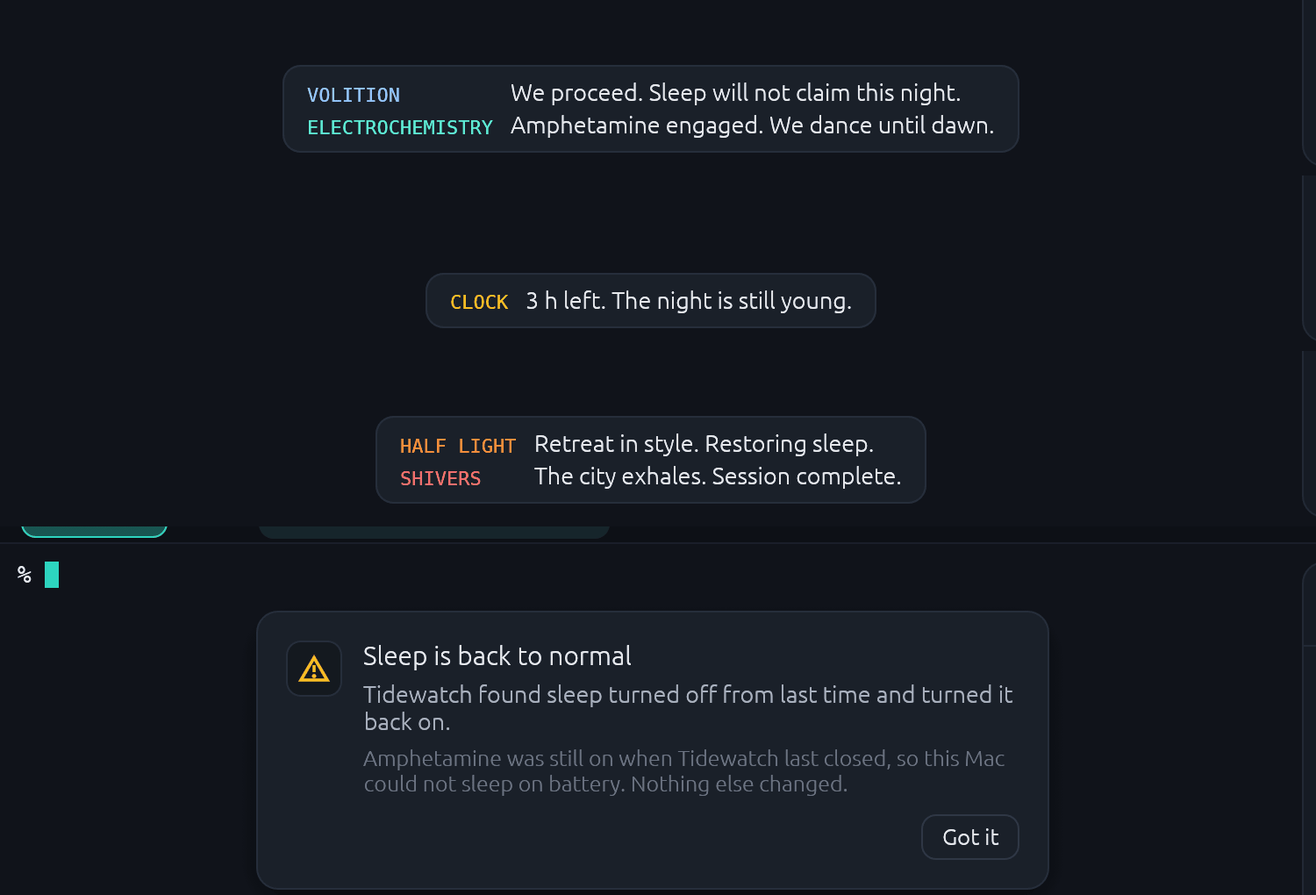
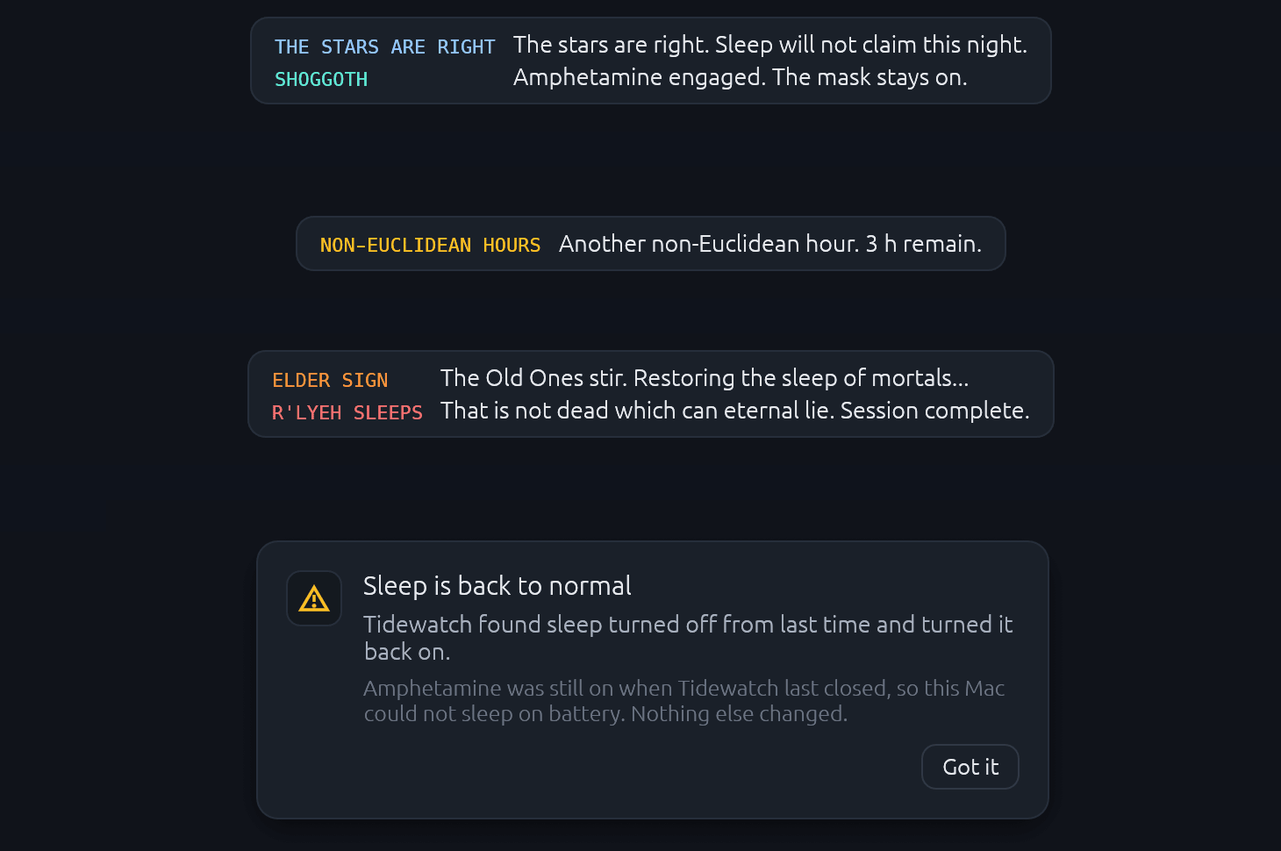
feat: Amphetamine toasts speak Lovecraft (voice screenshot 33 kB to 31 kB after pngquant and oxipng, PSNR above 50 dB)

diff --git a/crates/tidewatch/src/amphetamine_view.rs b/crates/tidewatch/src/amphetamine_view.rs
@@ -1,12 +1,12 @@
 //! The Amphetamine button at the right end of the tab strip: the tablet, the time pill that grows to
-//! its left, the menu a click opens, the tooltip, the toast lines in the skills' voice and the
+//! its left, the menu a click opens, the tooltip, the toast lines in the Lovecraftian voice and the
 //! safety notice card.
 
 use egui::{
     Align2, Color32, CornerRadius, Id, Margin, Order, Rect, RectAlign, Response, RichText, Sense,
     Stroke, StrokeKind, Ui, pos2, vec2,
 };
-use tidewatch_core::amphetamine::{Choice, Skill, State};
+use tidewatch_core::amphetamine::{Choice, Omen, State};
 
 use crate::amphetamine_icon;
 use crate::amphetamine_motion::{Look, STANDARD, bezier};
@@ -445,31 +445,31 @@ fn paint_warning(painter: &egui::Painter, center: egui::Pos2, size: f32) {
     painter.circle_filled(center + vec2(0.0, 5.0 * unit), 1.0 * unit * 1.5, brand::AMBER);
 }
 
-fn skill_ink(skill: Skill) -> Color32 {
-    match skill {
-        Skill::Volition => brand::BLUE_TEXT,
-        Skill::Electrochemistry => brand::TEAL_TEXT,
-        Skill::Clock => brand::AMBER,
-        Skill::HalfLight => brand::ORANGE,
-        Skill::Shivers => brand::RED,
-        Skill::Plain => brand::TEXT,
+fn omen_ink(omen: Omen) -> Color32 {
+    match omen {
+        Omen::StarsRight => brand::BLUE_TEXT,
+        Omen::Shoggoth => brand::TEAL_TEXT,
+        Omen::Hours => brand::AMBER,
+        Omen::ElderSign => brand::ORANGE,
+        Omen::Rlyeh => brand::RED,
+        Omen::Plain => brand::TEXT,
     }
 }
 
-/// The toast pill with a skill tag in front of each line.
-pub(crate) fn toast(ui: &Ui, column: Rect, lines: &[(Skill, String)], fade: f32) {
+/// The toast pill with an omen tag in front of each line.
+pub(crate) fn toast(ui: &Ui, column: Rect, lines: &[(Omen, String)], fade: f32) {
     let alpha = |color: Color32| color.gamma_multiply(fade);
     let painter = ui.painter();
     let tag_font = mono(11.0);
     let rows: Vec<_> = lines
         .iter()
-        .map(|(skill, text)| {
+        .map(|(omen, text)| {
             let tag =
-                painter.layout_no_wrap(skill.tag().to_owned(), tag_font.clone(), skill_ink(*skill));
+                painter.layout_no_wrap(omen.tag().to_owned(), tag_font.clone(), omen_ink(*omen));
             let wrap =
                 (column.width() - 2.0 * (TOAST_PAD.x + 16.0) - tag.size().x - 10.0).max(120.0);
             let line = painter.layout(text.clone(), body(13.5), brand::TEXT, wrap);
-            (*skill, tag, line)
+            (*omen, tag, line)
         })
         .collect();
     let tag_w = rows.iter().map(|(_, tag, _)| tag.size().x).fold(0.0, f32::max);
@@ -483,11 +483,11 @@ pub(crate) fn toast(ui: &Ui, column: Rect, lines: &[(Skill, String)], fade: f32)
     painter.rect_filled(rect, 10.0, alpha(brand::ITEM));
     painter.rect_stroke(rect, 10.0, Stroke::new(1.0, alpha(brand::ITEM_LINE)), StrokeKind::Inside);
     let mut y = rect.top() + TOAST_PAD.y;
-    for (skill, tag, line) in rows {
+    for (omen, tag, line) in rows {
         let tag_at =
             pos2(rect.left() + TOAST_PAD.x, y + (line.size().y - tag.size().y) / 2.0 + 1.0);
         let line_height = line.size().y;
-        painter.galley_with_override_text_color(tag_at, tag, alpha(skill_ink(skill)));
+        painter.galley_with_override_text_color(tag_at, tag, alpha(omen_ink(omen)));
         painter.galley_with_override_text_color(
             pos2(rect.left() + TOAST_PAD.x + tag_w + gap, y),
             line,

diff --git a/crates/tidewatch-core/src/amphetamine.rs b/crates/tidewatch-core/src/amphetamine.rs
@@ -108,54 +108,55 @@ pub enum Voice {
 }
 
 #[derive(Clone, Copy, Debug, PartialEq, Eq)]
-pub enum Skill {
-    Volition,
-    Electrochemistry,
-    Clock,
-    HalfLight,
-    Shivers,
+pub enum Omen {
+    StarsRight,
+    Shoggoth,
+    Hours,
+    ElderSign,
+    Rlyeh,
     Plain,
 }
 
-impl Skill {
+impl Omen {
     #[must_use]
     pub fn tag(self) -> &'static str {
         match self {
-            Self::Volition => "VOLITION",
-            Self::Electrochemistry => "ELECTROCHEMISTRY",
-            Self::Clock => "CLOCK",
-            Self::HalfLight => "HALF LIGHT",
-            Self::Shivers => "SHIVERS",
+            Self::StarsRight => "THE STARS ARE RIGHT",
+            Self::Shoggoth => "SHOGGOTH",
+            Self::Hours => "NON-EUCLIDEAN HOURS",
+            Self::ElderSign => "ELDER SIGN",
+            Self::Rlyeh => "R'LYEH SLEEPS",
             Self::Plain => "",
         }
     }
 }
 
 impl Voice {
-    /// The toast lines, each a skill tag and one short sentence.
+    /// The toast lines, each an omen tag and one short sentence.
     #[must_use]
-    pub fn lines(&self) -> Vec<(Skill, String)> {
-        let line = |skill, text: &str| (skill, text.to_owned());
+    pub fn lines(&self) -> Vec<(Omen, String)> {
+        let line = |omen, text: &str| (omen, text.to_owned());
         match self {
             Self::Start => vec![
-                line(Skill::Volition, "We proceed. Sleep will not claim this night."),
-                line(Skill::Electrochemistry, "Amphetamine engaged. We dance until dawn."),
+                line(Omen::StarsRight, "The stars are right. Sleep will not claim this night."),
+                line(Omen::Shoggoth, "Amphetamine engaged. The mask stays on."),
             ],
-            Self::HoursLeft(1) => vec![line(Skill::Clock, "1 h left. Dawn is close.")],
+            Self::HoursLeft(1) => {
+                vec![line(Omen::Hours, "The last non-Euclidean hour. 1 h remains.")]
+            }
             Self::HoursLeft(hours) => {
-                vec![(Skill::Clock, format!("{hours} h left. The night is still young."))]
+                vec![(Omen::Hours, format!("Another non-Euclidean hour. {hours} h remain."))]
             }
             Self::End => vec![
-                line(Skill::HalfLight, "Retreat in style. Restoring sleep."),
-                line(Skill::Shivers, "The city exhales. Session complete."),
+                line(Omen::ElderSign, "The Old Ones stir. Restoring the sleep of mortals..."),
+                line(Omen::Rlyeh, "That is not dead which can eternal lie. Session complete."),
             ],
             Self::NotStarted(why) => {
-                vec![(Skill::Plain, format!("Amphetamine did not start: {why}"))]
+                vec![(Omen::Plain, format!("Amphetamine did not start: {why}"))]
             }
-            Self::StillOff => vec![line(
-                Skill::Plain,
-                "Sleep may still be off. Run: sudo pmset -a disablesleep 0",
-            )],
+            Self::StillOff => {
+                vec![line(Omen::Plain, "Sleep may still be off. Run: sudo pmset -a disablesleep 0")]
+            }
         }
     }
 }

diff --git a/crates/tidewatch-core/src/amphetamine/tests.rs b/crates/tidewatch-core/src/amphetamine/tests.rs
@@ -134,15 +134,20 @@ fn the_choices_are_the_menu_in_order() {
 }
 
 #[test]
-fn the_voice_is_the_cocaine_function_skill_by_skill() {
+fn the_voice_is_cosmic_horror_omen_by_omen() {
     let tags = |voice: &Voice| -> Vec<&'static str> {
-        voice.lines().iter().map(|(skill, _)| skill.tag()).collect()
+        voice.lines().iter().map(|(omen, _)| omen.tag()).collect()
     };
-    assert_eq!(tags(&Voice::Start), ["VOLITION", "ELECTROCHEMISTRY"]);
-    assert_eq!(tags(&Voice::End), ["HALF LIGHT", "SHIVERS"]);
-    assert_eq!(Voice::HoursLeft(3).lines()[0].1, "3 h left. The night is still young.");
-    assert_eq!(Voice::HoursLeft(1).lines()[0].1, "1 h left. Dawn is close.");
-    assert_eq!(Voice::Start.lines()[0].1, "We proceed. Sleep will not claim this night.");
+    assert_eq!(tags(&Voice::Start), ["THE STARS ARE RIGHT", "SHOGGOTH"]);
+    assert_eq!(tags(&Voice::End), ["ELDER SIGN", "R'LYEH SLEEPS"]);
+    assert_eq!(tags(&Voice::HoursLeft(2)), ["NON-EUCLIDEAN HOURS"]);
+    assert_eq!(Voice::HoursLeft(3).lines()[0].1, "Another non-Euclidean hour. 3 h remain.");
+    assert_eq!(Voice::HoursLeft(1).lines()[0].1, "The last non-Euclidean hour. 1 h remains.");
+    assert_eq!(Voice::Start.lines()[0].1, "The stars are right. Sleep will not claim this night.");
+    assert_eq!(
+        Voice::End.lines()[1].1,
+        "That is not dead which can eternal lie. Session complete."
+    );
     for voice in [Voice::Start, Voice::End, Voice::HoursLeft(2), Voice::StillOff] {
         for (_, text) in voice.lines() {
             assert!(!text.contains(['\u{2014}', '\u{2013}']), "{text}");

diff --git a/crates/tidewatch/src/toast.rs b/crates/tidewatch/src/toast.rs
@@ -2,7 +2,7 @@
 //! fade is testable.
 
 use stdusk_egui::ui::toast_alpha;
-use tidewatch_core::amphetamine::Skill;
+use tidewatch_core::amphetamine::Omen;
 
 pub(crate) const LIFETIME_S: f64 = 3.5;
 const FADE_WINDOW_S: f64 = 0.35;
@@ -11,7 +11,7 @@ const FRAME_S: f64 = 1.0 / 60.0;
 #[derive(Debug, PartialEq)]
 pub(crate) struct Toast {
     text: String,
-    lines: Vec<(Skill, String)>,
+    lines: Vec<(Omen, String)>,
     expires: f64,
 }
 
@@ -20,13 +20,13 @@ impl Toast {
         Self { text: text.into(), lines: Vec::new(), expires: now + LIFETIME_S }
     }
 
-    /// A toast of lines that each open with a skill tag.
-    pub(crate) fn voice(lines: Vec<(Skill, String)>, now: f64) -> Self {
+    /// A toast of lines that each open with an omen tag.
+    pub(crate) fn voice(lines: Vec<(Omen, String)>, now: f64) -> Self {
         let text = lines.iter().map(|(_, line)| line.as_str()).collect::<Vec<_>>().join(" ");
         Self { text, lines, expires: now + LIFETIME_S }
     }
 
-    pub(crate) fn lines(&self) -> &[(Skill, String)] {
+    pub(crate) fn lines(&self) -> &[(Omen, String)] {
         &self.lines
     }
 

diff --git a/LEDGER.md b/LEDGER.md
@@ -11,12 +11,14 @@ A running log of what got done, newest first. The plan lives in [PLAN.md](PLAN.m
 
 ## 2026-10-24
 
+- **Amphetamine speaks Lovecraft (branch `amphetamine-voice`).** The toast lines of the Amphetamine button leave the Disco Elysium skills for public-domain cosmic horror, in the same four moments and structure: start (THE STARS ARE RIGHT, SHOGGOTH), each hour (NON-EUCLIDEAN HOURS), end (ELDER SIGN, R'LYEH SLEEPS). `Skill` is now `Omen`; the tests, the `project.md` line and `docs/screenshots/amphetamine-voice.png` follow. No new modules.
+
 - **Wheel and trackpad scroll in the terminal (branch `terminal-scroll`).** The owner: "I also cannot scroll". Root cause: stdusk routes the wheel in its own app code (`src/workspace.rs`: scrollback, arrow keys on the alternate screen, SGR wheel reports under mouse reporting), not in `stdusk-egui`, so moving to Tidewatch left the grid with nothing that read the wheel. New `terminal_wheel` ports that routing and reads the raw wheel events (points, lines or pages) with a carry, so a slow trackpad swipe adds up; `app/terminal.rs` also jumps back to the bottom when you type or paste, as stdusk does. Not the Tab focus lock: the grid keeps the focus through every wheel frame in the tests. Differences from stdusk: arrows follow the cursor-key mode (CSI normally, SS3 in application mode) where stdusk always sends SS3, and Alt+wheel as arrows is not ported. Checked: headless frames with the real panel, `collect_input`, `render_grid` and the focus lock over a real pty (shell scrollback by lines, points and pages, a pointer elsewhere, an alternate-screen app receiving `ESC [ A` and `ESC [ B`, SGR reports `ESC [ < 64 ; 38 ; 13 M` in the alternate and the normal screen), and a `TIDEWATCH_SCREENSHOT` run with `seq 1 500` and `TIDEWATCH_DEV_SCROLL=30`. Not checked: a real trackpad or wheel, Claude Code's own TUI, Linux; the Reader, History, file view and Overview use plain egui scroll areas and were read, not driven.
 
 - **Tab in the terminal goes to the shell (branch `terminal-tab-focus`).** The owner: "when I press Tab to autocomplete in the terminal, accessibility Tab kicks in and it starts focusing button elements". egui walks keyboard focus on Tab, Shift+Tab, arrows and Esc unless the focused widget filters them, and nothing held the focus while the shell had the keys, so the shell got `\t` and the buttons around it took focus too. `terminal_focus::hold` runs after the grid is drawn: when the shell has the keys (no modal, no focused text field, no open popup, no Reader) the grid takes the focus when nothing holds it and sets an `EventFilter` with tab, both arrow kinds and escape, so Tab reaches the pty as `\t`, Shift+Tab as `ESC [ Z`. It lets go when the keys are not free, so Tab in the new tab form, dialogs, Settings and text fields is egui's as before. `remember_focus` ignores the grid, otherwise an Esc meant for the shell would be used up as "a widget gave up the keyboard". stdusk has no such lock (its window has no buttons for Tab to reach), so the fix stays in this crate. Checked: headless frames with a text field, a button and the real `render_grid` over a real pty (7 tests; the three about Tab, Shift+Tab, arrows and Esc fail without the filter, the Esc one without the `remember_focus` change), and a throwaway frame harness typing `ech` and Tab into a real bash and zsh, which both completed to `echo`. Not checked: the window itself with a real keyboard, Linux.
 - **Screenshots paste with Cmd+V (branch `image-paste`).** The owner: "I STILL CAN'T PASTE SCREENSHOTS". egui folds Cmd+V into a text-only `Event::Paste` and sends nothing for an image-only clipboard, so Cmd+V with a screenshot did nothing. Ported stdusk's NSEvent local key-down monitor (stdusk keeps it in its binary, not a shared crate, so there is no stdusk change and no rev bump). It looks at the pasteboard types only (cheap on the main thread); for a picture or copied image files it swallows the key and counts a request, and the window turns that into a job for the tab in front. In a terminal tab Claude, Codex, Gemini and Copilot get Ctrl+V (0x16: each reads the clipboard picture on it; checked in the installed codex 0.162.1, gemini 0.46.0 and copilot 1.0.103), a plain shell or a custom CLI gets the path of a PNG saved in `<tab state>/pastes/`. In the Reader's reply box, the agent-ready composer or any focused text field the saved path is inserted (the Reader's reply when no field has the keyboard). Image files copied in Finder paste their own paths (Finder also puts the icon and the file name on the clipboard, so those are ignored). A clipboard with text and a picture keeps the text paste. Numbers: 2,910 tests pass across the workspace (about 20 new: the decision table, `shot_name`, `path_text`, saving a real PNG and reading it back, headless frames for the composer and the reply box, a mixed clipboard pasting its text). Checked live in a `TIDEWATCH_BACKGROUND=1` run (throwaway home and repo, stand-in `claude` that logs raw bytes, owner's clipboard saved and restored byte for byte): a screenshot clipboard put `16` in the stand-in's input, the composer got the saved path (the PNG decodes to the clipboard's 1224x754), a plain shell got the path at its prompt, a Finder-copied `Screen Shot.png` in a folder with a space pasted `'/tmp/ip files/Screen Shot.png'` and copied nothing, text alone and text with a picture pasted the text. The Cmd+V in those runs was a real `NSEvent` key-down queued in the app's own queue (`TIDEWATCH_DEV_IMAGE_PASTE`), so it passes the monitor. Not verified: a physical Cmd+V on the keyboard in a foreground window (a background window gets no key events from `CGEventPostToPid`), a real Claude Code, Codex, Gemini or Copilot reading the clipboard on the 0x16, Cmd+Ctrl+Shift+4 itself (a PNG on the clipboard stands in), Linux (egui-winit swallows Ctrl+V there too and nothing hooks it yet, so an image-only Ctrl+V still does nothing).
 
-- **Amphetamine (branch `amphetamine`).** The owner approved board Round 6 ("ok build it"): the `cocaine` function as a button at the right end of the strip. State machine in `tidewatch_core::amphetamine` (off, starting, on, stopping; timer end, Add 1 h, hourly toast), the root helper script and the one admin command in `amphetamine_lid`, the `System` seam with a recording `FakeSystem`, the tablet in `amphetamine_motion` (pure motion on the 24 unit grid), `amphetamine_icon` (egui painter), `amphetamine_pill`, `amphetamine_view` (button, pill, menu, tooltip, toasts with skill tags, safety notice) and `amphetamine_glue` (host, files, launch check). Palette row Amphetamine, found by typing `cocaine` too; one line under the Keep awake card in Settings. See the Deviations log for the pmset facts and what is decided.
+- **Amphetamine (branch `amphetamine`).** The owner approved board Round 6 ("ok build it"): the `cocaine` function as a button at the right end of the strip. State machine in `tidewatch_core::amphetamine` (off, starting, on, stopping; timer end, Add 1 h, hourly toast), the root helper script and the one admin command in `amphetamine_lid`, the `System` seam with a recording `FakeSystem`, the tablet in `amphetamine_motion` (pure motion on the 24 unit grid), `amphetamine_icon` (egui painter), `amphetamine_pill`, `amphetamine_view` (button, pill, menu, tooltip, toasts with omen tags, safety notice) and `amphetamine_glue` (host, files, launch check). Palette row Amphetamine, found by typing `cocaine` too; one line under the Keep awake card in Settings. See the Deviations log for the pmset facts and what is decided.
   Numbers: 85 new tests, 3,011 passing across the workspace (state machine table, helper script run with a fake `pmset` for deadline, token removed, pid gone, junk token, a later deadline and TERM, the admin command run with a fake `pmset`, quoting, launch recovery table, host flows through the fake system, motion timeline and seeded specks, label fit, headless frames: nothing to the right of the button moves, the pill never outgrows the gap, repaint delay `MAX` while off or unfocused and at most 33 ms while on, a click opens the menu); `TIDEWATCH_FAKE_AMPHETAMINE=off|on|forever|activating|short|notice|toast|hour|end` shows each state in a screenshot with no machine behind it (`docs/screenshots/amphetamine-*.png`).
   Not checked: the real password prompt and the real `pmset` (never run from a test or a dev run), the helper under root, a real lid closed on battery, Linux, a crash restore on a real machine, the macOS reduced-motion setting.
 - **On Linux the tab strip is the title bar.** The owner, on Fedora GNOME Wayland: the top bar is "un-esthethic", make it "part of a continious UI". GNOME draws no server-side frame, so winit's grey Adwaita bar sat over the Night tide strip. Off macOS and outside quake (`Chrome::Drawn`, from `Env::own_frame` in the Plan) the system frame is off; the strip's empty space drags the window (`StartDrag`) and a double click does what GNOME's `action-double-click-titlebar` says; the window buttons sit after the gear in the strip's icon-button look (close turns red on hover, all dim while the window is in the background) and follow GNOME's `button-layout` (read once with `gsettings` before the window opens; Fedora's default `appmenu:close` shows Close alone; minimize, maximize and close without GNOME); 5 px edges with L-shaped corners resize (`BeginResize`) from a foreground layer, and a 1 px `SIDEBAR_LINE` outlines the window, neither while maximized. macOS keeps its native title bar. Numbers: 999 app tests pass (17 new: plan, zones, layouts, and headless frames that a click on a strip widget stays with it, a drag on empty strip moves the window, double click, each button, an edge press resizes and one inside does not). Checked with `TIDEWATCH_SCREENSHOT` (buttons, the update chip beside them, the owner's Close-only layout) and a `TIDEWATCH_BACKGROUND` run on GNOME Wayland that opened and quit cleanly. **Not verified live:** dragging, double click, resizing and the buttons on a real desktop (they need the pointer; for the owner). **Open:** no rounded corners or shadow (GNOME gives neither to a window without its frame; corners need a transparent window); KDE and other desktops get the default buttons. The workspace clippy gate stops at a new rust 1.97 lint in `tidewatch-core` (`duration_suboptimal_units`, `test_command.rs:20`), not touched here; the delivery tests fail inside an agent tab because its push guard blocks their `git push`.

diff --git a/.agents/rules/project.md b/.agents/rules/project.md
@@ -66,7 +66,7 @@ crates/tidewatch-core/  worktrees, profiles, permission levels, workflows, agent
   src/trust_apply.rs    D14 disk half: each CLI's config file (CLAUDE_CONFIG_DIR, COPILOT_HOME, CODEX_HOME honored), inspect, trust the root, trust a worktree, revoke; atomic write, `.tidewatch-bak` backup, race check
   src/prefs.rs          ~/.config/tidewatch/settings.toml: the app-wide switches (restore the last session at launch, default on; `resume_agents` auto, prefill or off, default auto) the [window] table (quake on, hotkey Ctrl+Alt+Grave, menu-bar item on, panels side by side or below), the [updates] table (check, install; both on) and the [github] table (`mode` ask, auto or off, and three tick boxes: failed checks, reviews, conflicts; the default of a new tab's PR choices); bad file -> defaults; `update` rewrites one part from a fresh read; the `[new_tab]` table (`agent`, `permission` with a hand-edited `yolo` read as `edits`, `remote` default off, `start_from` current or default_branch, `right_panel` progress or history, `meeseeks_agent` the CLI the last Meeseeks ran on (kept apart from `agent`), `[new_tab.meeseeks]` the three Done means ticks; bad file -> defaults); the `[tabs]` table (`park_after`: off, 1h, 4h (default), 8h, 24h), the `[done_check]` table (`enabled`, on by default); the `[keep_awake]` table (`enabled`, on by default); the `[guards]` table (`dashes`, `trailers`, `private_names`, `rerun_failed`, `comments` on, `draft_prs` off, `private_repos` empty, `[guards.repos."<path>"]` answers); the `[terminal]` table (`font`: empty for the built-in face, else a family name, as `FontChoice`)
   src/keep_awake.rs    when the computer is kept from idle-sleeping, pure and table-tested: `keeps_awake` (a tab counts when `Working`, `NeedsYou(Quiet)` or with a running job on its board; a real wait, done or failed never), `State` (released, or held with the time the last working agent stopped), `step` (working agents, the switch and the time in; held at once, released after `RELEASE_AFTER_SECS` (120) of nobody working, off releases at once), `wake_at`
-  src/amphetamine.rs   Amphetamine, the keep-awake button, as a pure state machine: `State` (off, starting while the password prompt is open, on with a wall-clock deadline and the hour last told, stopping until sleep is confirmed back), `Event` in, `Effect` out (`StartLid`, take or release the hold, `WriteDeadline`, `StopLid`, `Say`), `Choice` (30 min, 1 h, 4 h, until turned off), `Voice` and its `Skill`-tagged lines (the owner's `cocaine` function: VOLITION, ELECTROCHEMISTRY, CLOCK, HALF LIGHT, SHIVERS), `hours_left`; without lid mode (Linux) there is no prompt and no stopping state
+  src/amphetamine.rs   Amphetamine, the keep-awake button, as a pure state machine: `State` (off, starting while the password prompt is open, on with a wall-clock deadline and the hour last told, stopping until sleep is confirmed back), `Event` in, `Effect` out (`StartLid`, take or release the hold, `WriteDeadline`, `StopLid`, `Say`), `Choice` (30 min, 1 h, 4 h, until turned off), `Voice` and its `Omen`-tagged lines (a Lovecraftian voice for the toasts: THE STARS ARE RIGHT, SHOGGOTH, NON-EUCLIDEAN HOURS, ELDER SIGN, R'LYEH SLEEPS), `hours_left`; without lid mode (Linux) there is no prompt and no stopping state
   src/amphetamine_lid.rs  lid-closed mode as strings and files: `helper_script` (a POSIX script run as root, token path and Tidewatch's pid as arguments: restores `pmset -a disablesleep 0` when the token file is gone, its deadline has passed, its text is not a number, Tidewatch's pid is gone, or it is told to stop), `admin_command` (`pmset -a disablesleep 1`, then the helper detached, its pid printed) and `osascript_args` (one `with administrator privileges` prompt), `shell_quote`, the token (the deadline in unix seconds, `0` for none) and the marker (`.state/amphetamine.json`, written before the prompt), `recovery` (what a launch does with a marker, `pmset -g` and a helper that may still run), `parse_sleep_disabled`
   src/amphetamine_system.rs  the seam for what touches the machine: the `System` trait (start lid mode, restore it, `pmset -g`, is a pid alive), `RealSystem` (osascript and pmset on macOS, an error elsewhere) and `FakeSystem`, which records its calls and models the helper (sleep comes back when the token file goes); every test and every dev, screenshot or background run uses the fake
   src/update.rs          self-update, the pure part: the repo and cask, `Mode::pick` (only a macOS cask install updates itself, the rest is notify-only), the fake release for `TIDEWATCH_FAKE_UPDATE`
@@ -154,7 +154,7 @@ crates/tidewatch/       the egui app
   src/amphetamine_icon.rs  paints the tablet with egui's painter (circles, polylines and one mesh, no texture; the mascot is rasterized with resvg because it is finished art, this is geometry that moves every frame)
   src/amphetamine_pill.rs  the time pill, pure: `clock_texts` (`1h 12m`, short `1h`), `left_text`, `fit` (full, short or hidden against the gap before the new tab button), `Slide` (260 ms spring open, 200 ms close), `label_alpha`, `line_fraction`
   src/amphetamine_glue.rs  `Host`: the machine of `tidewatch_core::amphetamine` over a `System` and a `Hold`, the marker and token files, the password prompt and the wait for sleep on `Jobs` threads, the launch check (only a marker this app wrote counts, never sleep turned off by hand) and its `Notice`, the clock and the tablet's `Look`; `Dev` is `TIDEWATCH_FAKE_AMPHETAMINE=off|on|forever|activating|short|notice|toast|hour|end` (fake system, no hold, nothing written)
-  src/amphetamine_view.rs  the button in the strip (the tablet, the pill that grows left of the icon so nothing to its right moves, the 2 px time line, the tooltip, the menu), the toast lines with skill tags, and the safety notice card; animates only while drawn in a focused, visible window (`mascot_motion::should_animate`), at most every 33 ms; `TIDEWATCH_DEV_AMPHETAMINE_MENU=1` keeps the menu open
+  src/amphetamine_view.rs  the button in the strip (the tablet, the pill that grows left of the icon so nothing to its right moves, the 2 px time line, the tooltip, the menu), the toast lines with omen tags, and the safety notice card; animates only while drawn in a focused, visible window (`mascot_motion::should_animate`), at most every 33 ms; `TIDEWATCH_DEV_AMPHETAMINE_MENU=1` keeps the menu open
   src/app/amphetamine.rs  the window's side: the host for this run (a dev, screenshot or background run gets the fake and no hold), its clock and toasts once per frame, the palette row (starts 1 h, or ends the running session) and the menu's actions
   src/last_used.rs      writes the last-workspace file (repos of the window) when the window gains focus and when it closes (not under a screenshot or background run)
   src/single_instance.rs  startup before any window: Mode from the run kind (screenshot and a background run in the real home take no part), hand the path (or stdusk's socket) to a running window and exit, `--toggle` to every live window with an exit code, workspace key
